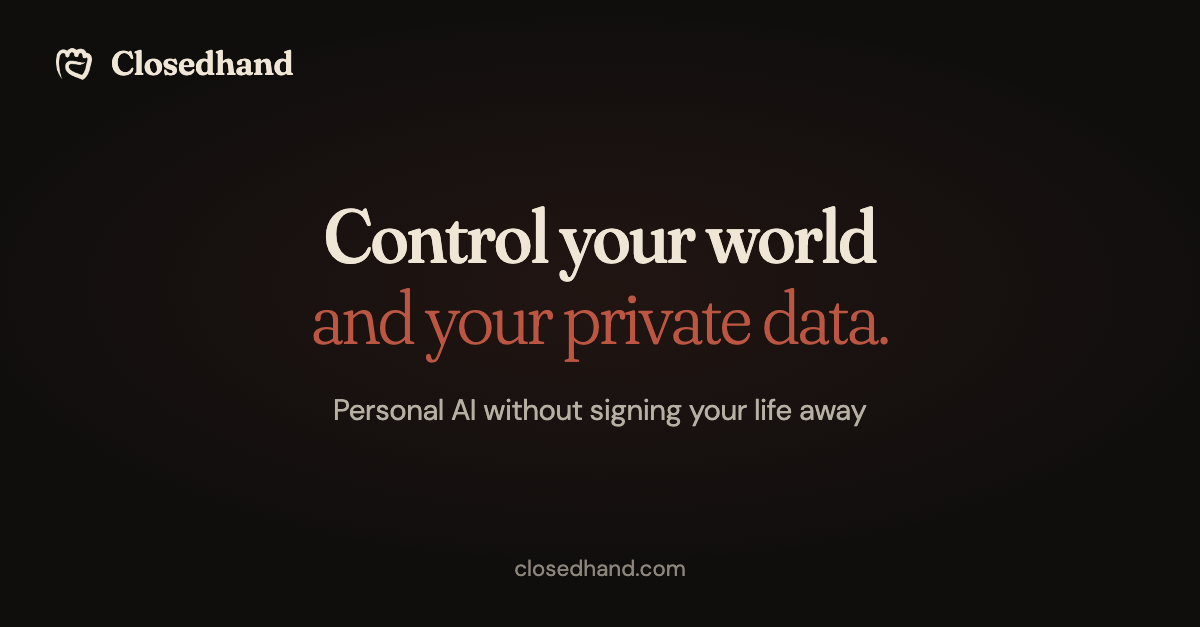
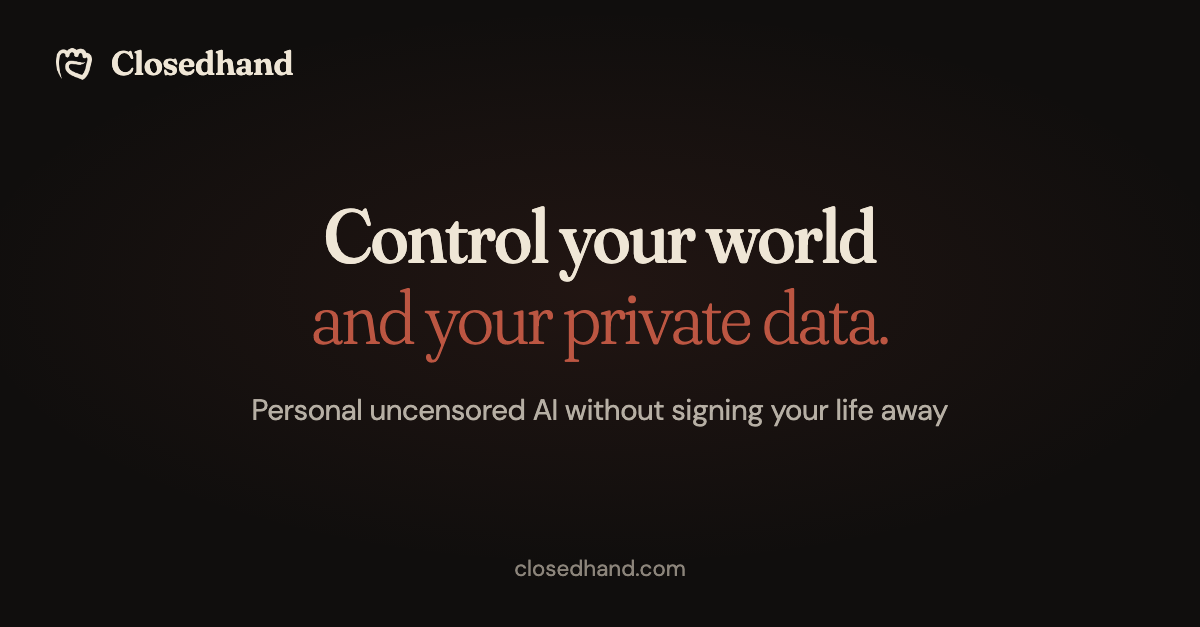
The company running Managed Models' sealed hardware is named nowhere people read: it is no longer one of the LLM providers to pick, and the Privacy page calls it the company running that hardware. When a job goes back from the computer to Managed Models, Closedhand says Closedhand Managed Models. Th

Changed region(s): [[0.185, 0.6364, 0.8017, 0.697]]

diff --git a/closedhand-com/views/privacy.html b/closedhand-com/views/privacy.html
@@ -25,7 +25,7 @@
 
       <p class="lead">Your conversations, mail and files never reach closedhand.com, so there is nothing here to keep. They live on the computer running your Closedhand assistant. Anyone else sees them only where you choose:</p>
       <ul>
-        <li>the LLM sees what you ask it: Closedhand Managed Models run in sealed hardware, so nobody but you can read what you send or what comes back, not even closedhand.com or NEAR AI, the company running that hardware; an LLM provider you pick yourself sees it under its own terms; with a local model, no LLM provider does;</li>
+        <li>the LLM sees what you ask it: Closedhand Managed Models run in sealed hardware, so nobody but you can read what you send or what comes back, not even closedhand.com or the company running that hardware; an LLM provider you pick yourself sees it under its own terms; with a local model, no LLM provider does;</li>
         <li>web searches go to a search service you connected, if you did, then to your LLM provider's own search where it has one, and otherwise to DuckDuckGo or Brave;</li>
         <li>chat apps such as WhatsApp or Telegram carry the messages you send through them;</li>
         <li>on your personal URL, Cloudflare carries the connection to your computer without keeping it;</li>
@@ -46,7 +46,7 @@
       <p>You choose the models and providers Closedhand uses. Hosted models receive the messages, retrieved content, images or other information needed for their role. Their retention, training and privacy terms apply. Closedhand cannot promise that every provider or account tier excludes training. A model running locally can process its role on your own hardware, but web searches, chat apps and other connected services still communicate externally. In the Mac app, when the LLM chosen for a job comes through OpenRouter and OpenRouter's public list of models links it to Hugging Face, or comes through DeepInfra, which names its models by their Hugging Face repository, Settings looks it up on Hugging Face to see whether it could run on the computer running Closedhand. Hugging Face sees that computer's internet address and the model's name. If you choose to run it there, it is downloaded from Hugging Face, and your LLM provider still answers whenever it isn't running, such as while it starts up.</p>
       <p>When Closedhand searches the web, it sends only the words of the search. If you connected a search service, they go to it first, on your account with that service and under its terms; you can switch this off on its tile in the dashboard. Next they go to your LLM provider's own search where it has one, on your account with that provider and under its terms; you can switch this off in the dashboard's Settings. Otherwise, or when those fail, they go to DuckDuckGo or Brave, which also see the internet address of the computer running Closedhand, under their own privacy policies.</p>
       <p>The same goes for anything else a service you connect does in Closedhand's place, such as reading web pages, watching videos, the weather or maps: what Closedhand looks up there (a page's address, a link, a place) goes to that service first, on your account with it and under its terms, and you can switch each one off on its tile in the dashboard.</p>
-      <p>Closedhand Managed Models give Closedhand an LLM to start with, running on NEAR AI's private inference in sealed hardware (Intel TDX and NVIDIA confidential computing). When you claim your personal URL, closedhand.com creates a NEAR AI API key for your Closedhand and gives it once to your computer. Your computer sends its LLM requests straight to NEAR AI, so they never pass through closedhand.com. Before anything is sent, your computer checks NEAR AI's proof that the hardware is genuine, then encrypts each request so it can only be opened inside that hardware, and checks the signature on each reply. So nobody but you can read what you send or what comes back, not even closedhand.com or NEAR AI. NEAR AI does see the key, the internet address of the computer running Closedhand, which model is used, how many tokens and when. Pictures and videos are described on the computer running Closedhand first, so only words are sent. closedhand.com keeps NEAR AI's ID for the key, not the key itself, and can see how much of the fair use has been used, never what was asked. The free 14 days are given once per person, so closedhand.com keeps a one-way fingerprint of the sign-in that claimed them, also after you delete your account, and for 30 days a one-way fingerprint of the internet address the claim came from. You can switch to your own LLM provider at any time in Settings. Deleting your Closedhand account deletes the key.</p>
+      <p>Closedhand Managed Models give Closedhand an LLM to start with, running in sealed hardware (Intel TDX and NVIDIA confidential computing) at a company that provides private inference. When you claim your personal URL, closedhand.com creates an API key at that company for your Closedhand and gives it once to your computer. Your computer sends its LLM requests straight to that company, so they never pass through closedhand.com. Before anything is sent, your computer checks the company's proof that the hardware is genuine, then encrypts each request so it can only be opened inside that hardware, and checks the signature on each reply. So nobody but you can read what you send or what comes back, not even closedhand.com or the company running the hardware. That company does see the key, the internet address of the computer running Closedhand, which model is used, how many tokens and when. Pictures and videos are described on the computer running Closedhand first, so only words are sent. closedhand.com keeps that company's ID for the key, not the key itself, and can see how much of the fair use has been used, never what was asked. The free 14 days are given once per person, so closedhand.com keeps a one-way fingerprint of the sign-in that claimed them, also after you delete your account, and for 30 days a one-way fingerprint of the internet address the claim came from. You can switch to your own LLM provider at any time in Settings. Deleting your Closedhand account deletes the key.</p>
       <p>If you subscribe to Closedhand Managed Models, Polar (polar.sh), which sells the subscription, takes your payment and card details under its own privacy policy; closedhand.com never sees your card. closedhand.com sends Polar your Closedhand account's ID and the email you sign in with, so the purchase belongs to your account, and your personal URL when you pay in My Account, so Polar's form can show there. It keeps whether your subscription is active, whether it renews every month, 6 months or 12, when it renews or ends, and Polar's ID for you. What you paid and its invoices go from Polar to your Closedhand through closedhand.com, which doesn't keep them.</p>
       <p>If you pay in crypto, the payment goes through closedhand.com's own payment server (BTCPay Server), which runs on closedhand.com's own hosting and only watches for payments: no other company is in between. The invoice carries your Closedhand account's ID and what it pays for (how many months, or carrying on past fair use), and nothing about you: no name, no email and no card. closedhand.com keeps the invoice's ID, what it paid for, the amount and when. A crypto payment is recorded on its network's public ledger, as every crypto payment is; a Bitcoin payment goes to an address made for that one payment.</p>
       <p>Third-party services retain data under their own policies. Disconnecting a service from Closedhand does not delete the account or copies held by that service.</p>

diff --git a/webapp/views/privacy.html b/webapp/views/privacy.html
@@ -20,7 +20,7 @@
 
       <p class="lead">Your conversations, mail and files never reach closedhand.com, so there is nothing here to keep. They live on the computer running Closedhand. Anyone else sees them only where you choose:</p>
       <ul>
-        <li>the LLM sees what you ask it: Closedhand Managed Models run in sealed hardware, so nobody but you can read what you send or what comes back, not even closedhand.com or NEAR AI, the company running that hardware; an LLM provider you pick yourself sees it under its own terms; with a local model, no LLM provider does;</li>
+        <li>the LLM sees what you ask it: Closedhand Managed Models run in sealed hardware, so nobody but you can read what you send or what comes back, not even closedhand.com or the company running that hardware; an LLM provider you pick yourself sees it under its own terms; with a local model, no LLM provider does;</li>
         <li>web searches go to a search service you connected, if you did, then to your LLM provider's own search where it has one, and otherwise to DuckDuckGo or Brave;</li>
         <li>chat apps such as WhatsApp or Telegram carry the messages you send through them;</li>
         <li>on your personal URL, Cloudflare carries the connection to your computer without keeping it;</li>
@@ -41,7 +41,7 @@
       <p>You choose the models and providers Closedhand uses. Hosted models receive the messages, retrieved content, images or other information needed for their role. Their retention, training and privacy terms apply. Closedhand cannot promise that every provider or account tier excludes training. A model running locally can process its role on your own hardware, but web searches, chat apps and other connected services still communicate externally. In the Mac app, when the LLM chosen for a job comes through OpenRouter and OpenRouter's public list of models links it to Hugging Face, or comes through DeepInfra, which names its models by their Hugging Face repository, Settings looks it up on Hugging Face to see whether it could run on the computer running Closedhand. Hugging Face sees that computer's internet address and the model's name. If you choose to run it there, it is downloaded from Hugging Face, and your LLM provider still answers whenever it isn't running, such as while it starts up.</p>
       <p>When Closedhand searches the web, it sends only the words of the search. If you connected a search service, they go to it first, on your account with that service and under its terms; you can switch this off on its tile in the dashboard. Next they go to your LLM provider's own search where it has one, on your account with that provider and under its terms; you can switch this off in the dashboard's Settings. Otherwise, or when those fail, they go to DuckDuckGo or Brave, which also see the internet address of the computer running Closedhand, under their own privacy policies.</p>
       <p>The same goes for anything else a service you connect does in Closedhand's place, such as reading web pages, watching videos, the weather or maps: what Closedhand looks up there (a page's address, a link, a place) goes to that service first, on your account with it and under its terms, and you can switch each one off on its tile in the dashboard.</p>
-      <p>Closedhand Managed Models give Closedhand an LLM to start with, running on NEAR AI's private inference in sealed hardware (Intel TDX and NVIDIA confidential computing). When you claim your personal URL, closedhand.com creates a NEAR AI API key for your Closedhand and gives it once to your computer. Your computer sends its LLM requests straight to NEAR AI, so they never pass through closedhand.com. Before anything is sent, your computer checks NEAR AI's proof that the hardware is genuine, then encrypts each request so it can only be opened inside that hardware, and checks the signature on each reply. So nobody but you can read what you send or what comes back, not even closedhand.com or NEAR AI. NEAR AI does see the key, the internet address of the computer running Closedhand, which model is used, how many tokens and when. Pictures and videos are described on the computer running Closedhand first, so only words are sent. closedhand.com keeps NEAR AI's ID for the key, not the key itself, and can see how much of the fair use has been used, never what was asked. The free 14 days are given once per person, so closedhand.com keeps a one-way fingerprint of the sign-in that claimed them, also after you delete your account, and for 30 days a one-way fingerprint of the internet address the claim came from. You can switch to your own LLM provider at any time in Settings. Deleting your Closedhand account deletes the key.</p>
+      <p>Closedhand Managed Models give Closedhand an LLM to start with, running in sealed hardware (Intel TDX and NVIDIA confidential computing) at a company that provides private inference. When you claim your personal URL, closedhand.com creates an API key at that company for your Closedhand and gives it once to your computer. Your computer sends its LLM requests straight to that company, so they never pass through closedhand.com. Before anything is sent, your computer checks the company's proof that the hardware is genuine, then encrypts each request so it can only be opened inside that hardware, and checks the signature on each reply. So nobody but you can read what you send or what comes back, not even closedhand.com or the company running the hardware. That company does see the key, the internet address of the computer running Closedhand, which model is used, how many tokens and when. Pictures and videos are described on the computer running Closedhand first, so only words are sent. closedhand.com keeps that company's ID for the key, not the key itself, and can see how much of the fair use has been used, never what was asked. The free 14 days are given once per person, so closedhand.com keeps a one-way fingerprint of the sign-in that claimed them, also after you delete your account, and for 30 days a one-way fingerprint of the internet address the claim came from. You can switch to your own LLM provider at any time in Settings. Deleting your Closedhand account deletes the key.</p>
       <p>If you subscribe to Closedhand Managed Models, Polar (polar.sh), which sells the subscription, takes your payment and card details under its own privacy policy; closedhand.com never sees your card. closedhand.com sends Polar your Closedhand account's ID and the email you sign in with, so the purchase belongs to your account, and keeps whether your subscription is active, whether it renews every month, 6 months or 12, when it renews or ends, and Polar's ID for you.</p>
       <p>If you pay in crypto, the payment goes through closedhand.com's own payment server (BTCPay Server), which runs on closedhand.com's own hosting and only watches for payments: no other company is in between. The invoice carries your Closedhand account's ID and what it pays for (how many months, or carrying on past fair use), and nothing about you: no name, no email and no card. closedhand.com keeps the invoice's ID, what it paid for, the amount and when. A crypto payment is recorded on its network's public ledger, as every crypto payment is; a Bitcoin payment goes to an address made for that one payment.</p>
       <p>Third-party services retain data under their own policies. Disconnecting a service from Closedhand does not delete the account or copies held by that service.</p>

diff --git a/closedhand-com/views/home.html b/closedhand-com/views/home.html
@@ -6,11 +6,11 @@
   <script src="/theme.js"></script><script src="/account-nav.js" defer></script><script src="/message-us.js" defer></script>
 <script src="/handheld.js"></script>
 <title>Closedhand</title>
-<meta name="description" content="Personal AI without signing your life away. Your Closedhand assistant is free and open source, runs on a computer you control and works with any LLM.">
+<meta name="description" content="Personal uncensored AI without signing your life away. Your Closedhand assistant is free and open source, runs on a computer you control and works with any LLM.">
 <meta property="og:type" content="website">
 <meta property="og:site_name" content="Closedhand">
 <meta property="og:title" content="Closedhand: control your world and your private data">
-<meta property="og:description" content="Personal AI without signing your life away. Your Closedhand assistant is free and open source, runs on a computer you control and works with any LLM.">
+<meta property="og:description" content="Personal uncensored AI without signing your life away. Your Closedhand assistant is free and open source, runs on a computer you control and works with any LLM.">
 <meta property="og:url" content="https://closedhand.com/">
 <meta property="og:image" content="https://closedhand.com/og.png">
 <meta property="og:image:width" content="1200">
@@ -895,7 +895,7 @@ body.chat-active .mon-area { display:none; }
   <div class="hero-area" id="heroSection">
     <div class="hero-space-top" style="flex:0.55"></div>
     <div class="hero-heading"><span class="hero-heading-first">Control your world</span><span class="hero-heading-more" id="heroMore">and your private data.</span></div>
-    <div class="hero-heading-sub">Personal AI without signing your life away</div>
+    <div class="hero-heading-sub">Personal uncensored AI without signing your life away</div>
     <script>
       // The second sentence of the heading is measured at its natural width
       // once the fonts are in, so it can unfold to exactly that; then the hero

diff --git a/scripts/test-included-ai.js b/scripts/test-included-ai.js
@@ -532,11 +532,16 @@ test("Managed Models say which LLM they run and that nobody else can read it", (
   assert.match(read("closedhand-com/lib/included-ai.js"), /INCLUDED_AI_MODEL_NAME \|\| keys\.defaults\.name/);
   assert.match(read("closedhand-com/lib/included-ai-near.js"), /name: 'DeepSeek V4\.1 Flash, uncensored'/, "NEAR's, by default");
   assert.match(read("lib/engine.js"), /\(Closedhand Managed Models, which Closedhand picks\)/, "chat names the LLM when asked");
+  // The company running the sealed hardware is named nowhere people read,
+  // the Privacy page included, and is not a provider people can pick.
   for (const f of ["webapp/views/setup.html", "webapp/views/dashboard.html", "closedhand-com/public/account.js", "closedhand-com/views/home.html"]) {
-    assert.doesNotMatch(read(f), /NEAR AI|OpenRouter, only on|through OpenRouter/, `${f}: names no company for Managed Models`);
+    assert.doesNotMatch(read(f), /NEAR|OpenRouter, only on|through OpenRouter/, `${f}: names no company for Managed Models`);
+  }
+  for (const f of ["webapp/views/privacy.html", "closedhand-com/views/privacy.html", "webapp/public/model-settings.js", "webapp/provider-names.js", "README.md"]) {
+    assert.doesNotMatch(read(f), /NEAR/, `${f}: names no company for Managed Models`);
   }
   for (const f of ["webapp/views/privacy.html", "closedhand-com/views/privacy.html"]) {
-    assert.match(read(f), /So nobody but you can read what you send or what comes back, not even closedhand\.com or NEAR AI\./, `${f}: the Privacy page says who and what they see`);
+    assert.match(read(f), /So nobody but you can read what you send or what comes back, not even closedhand\.com or the company running the hardware\./, `${f}: the Privacy page says who and what they see`);
   }
 });
 

diff --git a/scripts/test-near-private.js b/scripts/test-near-private.js
@@ -227,12 +227,12 @@ test("the proof's own checks: report data, configuration and event log", async (
   assert.deepEqual(near.ACCEPTED_TCB, ["UpToDate", "SWHardeningNeeded", "ConfigurationNeeded", "ConfigurationAndSWHardeningNeeded"]);
 });
 
-test("NEAR AI is a provider like the others: listed, named and found by its address", () => {
+test("the sealed hardware runs Managed Models and is no provider people pick: found by its address, named in no list", () => {
   const read = (p) => fs.readFileSync(path.join(__dirname, "..", p), "utf8");
   assert.equal(require("../lib/model-policy").BASES.near, "https://cloud-api.near.ai/v1");
-  assert.match(read("webapp/public/model-settings.js"), /near: "NEAR AI"/);
-  assert.equal(require("../webapp/provider-names").PROVIDERS.near, "NEAR AI");
-  assert.match(read("webapp/model-summary.js"), /"cloud-api\.near\.ai": "NEAR AI"/);
+  assert.doesNotMatch(read("webapp/public/model-settings.js"), /near:/);
+  assert.equal(require("../webapp/provider-names").PROVIDERS.near, undefined);
+  assert.doesNotMatch(read("webapp/model-summary.js"), /near\.ai/);
   assert.ok(near.isNear({ provider: "near" }) && near.isNear({ provider: "custom", baseUrl: "https://cloud-api.near.ai/v1" }) && !near.isNear({ provider: "deepseek", baseUrl: "https://api.deepseek.com/v1" }));
   assert.match(read("lib/model-wire.js"), /near\.isNear\(conn\) \? await near\.complete\(conn, body, \{ signal \}\)/);
 });

diff --git a/webapp/run-here.js b/webapp/run-here.js
@@ -30,7 +30,7 @@ const OPENROUTER_MODELS = "https://openrouter.ai/api/v1/models";
 const DAY = 24 * 3600 * 1000;
 const JOB_NAMES = ["chat", "background", "vision"];
 const PROVIDER_NAMES = { anthropic: "Anthropic", deepinfra: "DeepInfra", deepseek: "DeepSeek", gemini: "Google Gemini", groq: "Groq",
-  moonshot: "Moonshot", near: "NEAR AI", openai: "OpenAI", openrouter: "OpenRouter", xai: "xAI", ollama: "Ollama", custom: "your provider" };
+  moonshot: "Moonshot", near: "Closedhand Managed Models", openai: "OpenAI", openrouter: "OpenRouter", xai: "xAI", ollama: "Ollama", custom: "your provider" };
 // Where a GGUF may come from: the model's makers, or quantizers whose
 // versions the llama.cpp community relies on. Anyone can publish one, and
 // its file runs with access to the person's mail, so nobody else's is used.

diff --git a/webapp/model-summary.js b/webapp/model-summary.js
@@ -7,8 +7,7 @@ function location(model, baseUrl) {
   if (["localhost", "127.0.0.1", "[::1]", "host.docker.internal"].includes(host)) return HERE;
   return ({ "api.x.ai": "xAI", "api.deepinfra.com": "DeepInfra", "api.deepseek.com": "DeepSeek",
     "api.anthropic.com": "Anthropic", "api.openai.com": "OpenAI", "openrouter.ai": "OpenRouter",
-    "generativelanguage.googleapis.com": "Google Gemini", "api.groq.com": "Groq", "api.moonshot.ai": "Moonshot",
-    "cloud-api.near.ai": "NEAR AI" })[host] || host;
+    "generativelanguage.googleapis.com": "Google Gemini", "api.groq.com": "Groq", "api.moonshot.ai": "Moonshot" })[host] || host;
 }
 function modelSummary(settings, read = key => process.env[key], local = false) {
   const runtime = read;

diff --git a/webapp/public/model-settings.js b/webapp/public/model-settings.js
@@ -2,7 +2,7 @@
 (function () {
   var providers = {
     anthropic: "Anthropic", deepinfra: "DeepInfra", deepseek: "DeepSeek", gemini: "Google Gemini",
-    groq: "Groq", moonshot: "Moonshot", near: "NEAR AI", openai: "OpenAI", openrouter: "OpenRouter", xai: "xAI",
+    groq: "Groq", moonshot: "Moonshot", openai: "OpenAI", openrouter: "OpenRouter", xai: "xAI",
     ollama: "Ollama (local models)", custom: "Other compatible service"
   };
   // What each role does, behind the "i" beside its name, in the saved list

diff --git a/brand/og.html b/brand/og.html
@@ -26,7 +26,7 @@
 <body>
   <div class="brand"><img src="fist.png" alt=""><span>Closedhand</span></div>
   <div class="heading"><div>Control your world</div><div>and your private data.</div></div>
-  <div class="sub">Personal AI without signing your life away</div>
+  <div class="sub">Personal uncensored AI without signing your life away</div>
   <div class="url">closedhand.com</div>
 </body>
 </html>

diff --git a/webapp/provider-names.js b/webapp/provider-names.js
@@ -10,7 +10,6 @@ const PROVIDERS = {
   xai: "xAI (Grok)",
   deepseek: "DeepSeek",
   openrouter: "OpenRouter",
-  near: "NEAR AI",
   moonshot: "Moonshot",
   ollama: "Ollama",
 };

diff --git a/README.md b/README.md
@@ -1,6 +1,6 @@
 # Closedhand
 
-Personal AI without signing your life away.
+Personal uncensored AI without signing your life away.
 
 Closedhand is a private AI assistant that runs on your own computer. Connect any app or service you use, from your mail and chats to your files, bank and work tools, and none of it ever needs to leave your computer. Talk to it in WhatsApp, Telegram or the web chat. Ask "What wine did Tom like?" and it answers "A 2019 Rioja. He said so on WhatsApp." It also speaks up before you ask: "Your flight's delayed. You'll miss your train."
 
@@ -87,7 +87,7 @@ By the time you say hello, Closedhand has already read your inbox and calendar.
 
 ## LLMs
 
-Closedhand is free software and works with any LLM you choose, free ones included: Anthropic, DeepInfra, DeepSeek, Gemini, Groq, Moonshot, NEAR AI, OpenAI, OpenRouter, xAI, any OpenAI-compatible endpoint, or a model running on your own computer. The LLM provider you choose sees what you ask under its own terms; with a model on your own computer, no company does.
+Closedhand is free software and works with any LLM you choose, free ones included: Anthropic, DeepInfra, DeepSeek, Gemini, Groq, Moonshot, OpenAI, OpenRouter, xAI, any OpenAI-compatible endpoint, or a model running on your own computer. The LLM provider you choose sees what you ask under its own terms; with a model on your own computer, no company does.
 
 If you'd rather not choose, Closedhand Managed Models run DeepSeek V4.1 Flash, uncensored, in sealed hardware: nobody but you can read what you send or what comes back. When a better uncensored LLM is available, Closedhand switches to it for you. Closedhand Managed Models come with 14 days at no charge, once per person, and then carry on with an optional subscription, monthly or every 6 or 12 months, or paid ahead in crypto for 3, 6 or 9 months. You can switch to your own LLM provider at any time.
 

diff --git a/AGENTS.md b/AGENTS.md
@@ -225,8 +225,8 @@ these rules; where a rule makes a screen worse, change the rule here, never quie
   know it by. Closedhand Managed Models are shown with the LLM they run, by the name closedhand.com
   gives it ("DeepSeek V4.1 Flash, uncensored"), and "It runs in sealed hardware, so nobody but you
   can read what you send or what it answers. When a better uncensored LLM is available,
-  Closedhand switches to it for you." The company running that hardware (NEAR AI) is named only
-  on the Privacy page, never elsewhere in the app, on the site or in chat.
+  Closedhand switches to it for you." The company running that hardware is never named in anything people read (the Privacy page
+  calls it the company running that hardware), and is not one of the LLM providers people can pick.
 - Closedhand Managed Models are one product with one name: 14 free days set up for the person,
   then a subscription that keeps them going, renewing every month or every 6 or 12 months, or
   3, 6 or 9 months paid ahead in crypto, which never renew by themselves. Closedhand's own email address comes with
@@ -264,7 +264,7 @@ these rules; where a rule makes a screen worse, change the rule here, never quie
   of what comes next puts the person's own LLM provider first and the subscription second.
 - LLM providers are equal. No provider gets special treatment, fallback priority, or
   hardcoded references. Each provider is fully isolated.
-  Closedhand Managed Models (closedhand.com makes each account a NEAR AI API key,
+  Closedhand Managed Models (closedhand.com makes each account a key at the company running the sealed hardware,
   closedhand-com/lib/included-ai.js) are a closedhand.com service, not a provider preference:
   the app's provider list stays equal, and the person can switch to their own LLM provider
   at any time.
